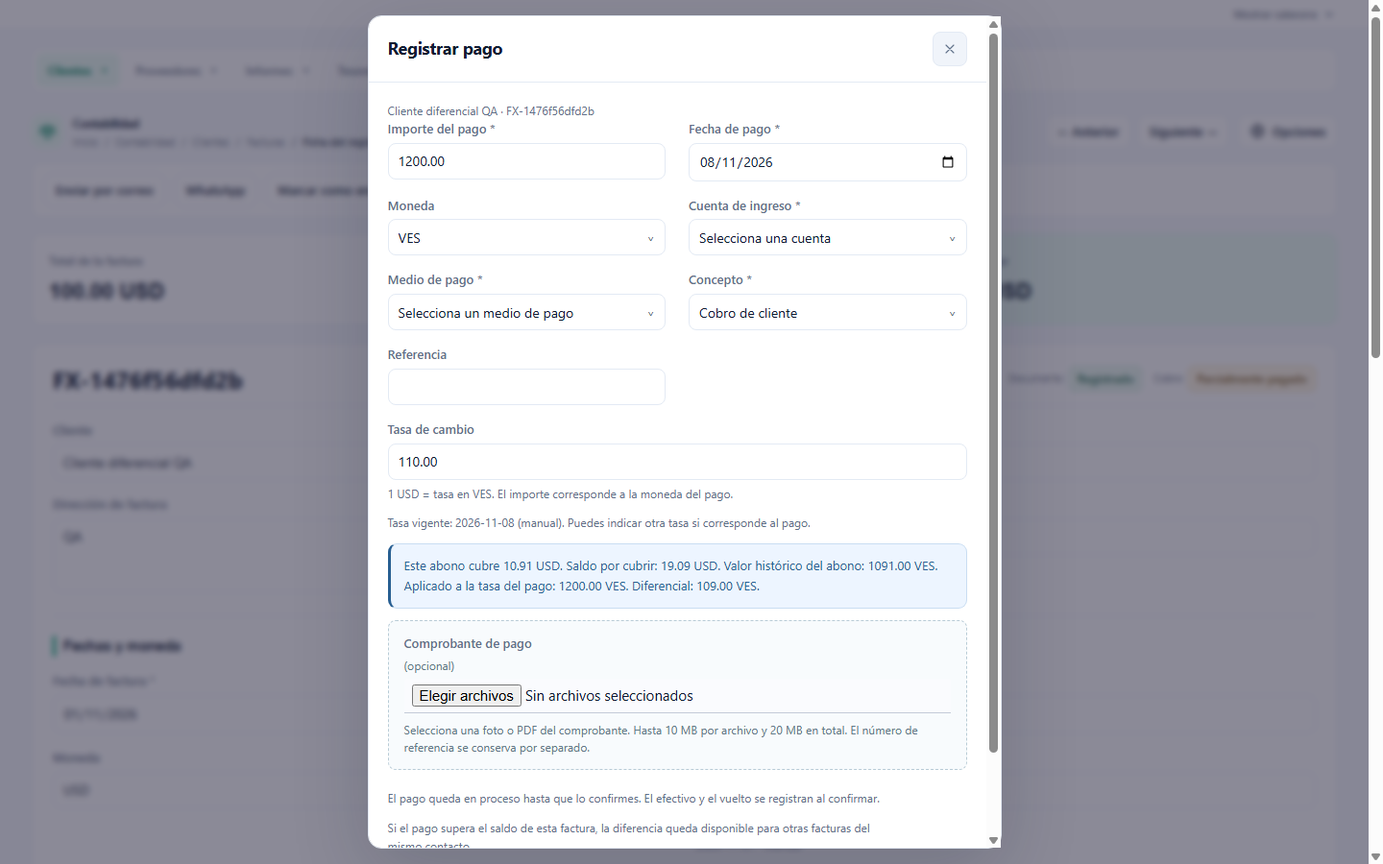
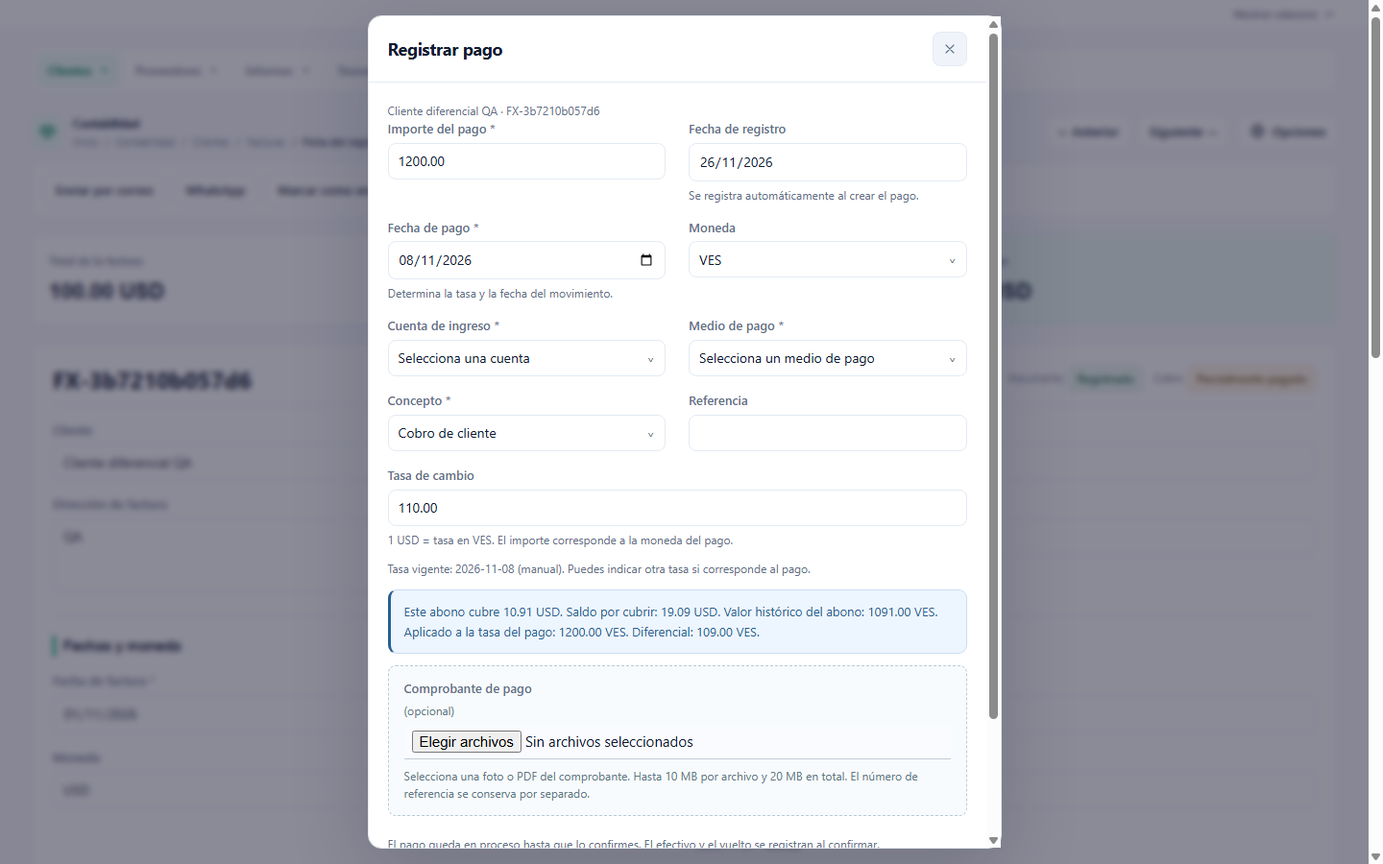
ajustes de fechas de pagos

diff --git a/test/commission-general-ui.js b/test/commission-general-ui.js
@@ -15,17 +15,25 @@ const fs=require('node:fs'),os=require('node:os'),path=require('node:path'),asse
   await ev('document.querySelector("[name=login]").value='+JSON.stringify(process.env.NEXO_TEST_LOGIN)+';document.querySelector("[name=password]").value='+JSON.stringify(process.env.NEXO_TEST_PASSWORD)+';document.querySelector("form").requestSubmit()');await until('!!document.querySelector(".konta-module-card")');
 
   const checks=[];
-  for(const width of [390,1440]){
+  const invoice=process.env.NEXO_TEST_INVOICE;
+  const routes=['/modules/ventas/pagos-comisiones.php?new=1&seller_id='+process.env.NEXO_TEST_SELLER+'&commission_currency=USD','/modules/ventas/pagos-comisiones.php?new=1&invoice_id='+invoice+'&period=custom&date_from='+process.env.NEXO_TEST_PAYMENT_DATE+'&date_to='+process.env.NEXO_TEST_PAYMENT_DATE,'/modules/ventas/comisiones.php?id='+invoice];
+  for(const width of [390,1440])for(const [index,route] of routes.entries()){
    await call('Emulation.setDeviceMetricsOverride',{width,height:900,deviceScaleFactor:1,mobile:width<600});
-   await navigate('/modules/ventas/pagos-comisiones.php?new=1&seller_id='+process.env.NEXO_TEST_SELLER+'&commission_currency=USD');
+   await navigate(route);
    await until('!!document.querySelector("[data-commission-payment-form]")');
    await until('!!document.querySelector("[data-commission-preview]").textContent');
-   await ev('document.querySelector("[data-commission-amount]").value="2.00";document.querySelector("[data-commission-currency]").value="VES";document.querySelector("[data-commission-rate]").value="110.00";document.querySelector("[data-commission-rate]").dispatchEvent(new Event("input",{bubbles:true}))');
+   await ev('document.querySelector("[data-open-commission-payment]")?.click();document.querySelector("[data-commission-amount]").value="2.00";document.querySelector("[data-commission-currency]").value="VES";document.querySelector("[data-commission-currency]").dispatchEvent(new Event("change",{bubbles:true}));document.querySelector("[data-commission-rate]").value="110.00";document.querySelector("[data-commission-rate]").dispatchEvent(new Event("input",{bubbles:true}))');
    const preview=await ev('document.querySelector("[data-commission-preview]").textContent');assert.ok(preview.includes('220.00 VES'),preview);
+   const registered=await ev('document.querySelector("[data-commission-payment-form] input[type=date][readonly]").value');
+   await ev('document.querySelector("[name=movement_date]").value='+JSON.stringify(process.env.NEXO_TEST_PAYMENT_DATE)+';document.querySelector("[name=movement_date]").dispatchEvent(new Event("change",{bubbles:true}))');
+   await until('document.querySelector("[name=exchange_rate]").value==="100.00"&&document.querySelector("[data-payment-rate-status]").textContent.includes('+JSON.stringify(process.env.NEXO_TEST_PAYMENT_DATE)+')');
+   assert.equal(await ev('document.querySelector("[data-commission-preview]").textContent.includes("200.00 VES")'),true);
+   assert.equal(await ev('document.querySelector("[data-commission-amount]").value'),'2.00');
+   assert.equal(await ev('document.querySelector("[data-commission-payment-form] input[type=date][readonly]").value'),registered);
    const bounds=await ev('({width:innerWidth,overflow:document.documentElement.scrollWidth>innerWidth+1,fields:[...document.querySelectorAll("[data-commission-payment-form] input:not([type=hidden]),[data-commission-payment-form] select")].every(e=>{const r=e.getBoundingClientRect();return r.left>=0&&r.right<=innerWidth+1})})');
    assert.equal(bounds.overflow,false);assert.equal(bounds.fields,true);checks.push({width,...bounds,preview});
-   const shot=await call('Page.captureScreenshot',{format:'png',captureBeyondViewport:true});fs.writeFileSync(path.join(out,'general-'+width+'.png'),Buffer.from(shot.data,'base64'));
+   const shot=await call('Page.captureScreenshot',{format:'png',captureBeyondViewport:true});fs.writeFileSync(path.join(out,'general-'+index+'-'+width+'.png'),Buffer.from(shot.data,'base64'));
   }
-  assert.deepEqual(errors,[]);fs.writeFileSync(path.join(out,'report.json'),JSON.stringify(checks,null,2));console.log('PASS: desktop/mobile general commission form, conversion preview, controls inside viewport and no browser errors.');
+  assert.deepEqual(errors,[]);fs.writeFileSync(path.join(out,'report.json'),JSON.stringify(checks,null,2));console.log('PASS: desktop/mobile general and invoice commission forms, dated rates, stable registration date and native amount, preview and no browser errors.');
  }finally{if(ws)ws.close();child.kill();await new Promise(resolve=>child.once('exit',resolve));for(let n=0;n<10;n++){try{fs.rmSync(profile,{recursive:true,force:true});break;}catch{await new Promise(r=>setTimeout(r,100));}}}
 })().catch(error=>{console.error(error);process.exitCode=1;});

diff --git a/js/payment-exchange.js b/js/payment-exchange.js
@@ -1,6 +1,6 @@
 // Compare each applied portion, using the same cent rounding as the PHP repository.
 for (const form of document.querySelectorAll('[data-payment-rate-endpoint]')) {
-    const date=form.querySelector('[name="payment_date"]'), rate=form.querySelector('[name="exchange_rate"]');
+    const date=form.elements.namedItem(form.dataset.paymentDateField||'payment_date'), rate=form.querySelector('[name="exchange_rate"]');
     const currency=form.querySelector('[name="currency_code"]'), amount=form.querySelector('[name="amount"]');
     const status=form.querySelector('[data-payment-rate-status]'), preview=form.querySelector('[data-payment-fx-preview]');
     const pair=JSON.parse(form.dataset.paymentPair), invoice=JSON.parse(form.dataset.paymentFxInvoice||'null');

diff --git a/html/sales/commission-payments.php b/html/sales/commission-payments.php
@@ -21,13 +21,14 @@
     <?php endif; ?>
     <?php if($page['view']==='list'): ?>
         <p class="section-subtitle">Período por fecha de pago. Cada registro corresponde al mismo egreso registrado en Tesorería; los pagos revertidos se conservan.</p>
-        <div class="contact-table-wrap"><table class="contact-table"><thead><tr><th>Pago</th><th>Fecha</th><th>Vendedor</th><th>Factura</th><th>Cuenta de egreso</th><th>Medio de pago</th><th>Importe pagado</th><th>Comisión aplicada</th><th>Estado</th></tr></thead><tbody>
+        <div class="contact-table-wrap"><table class="contact-table"><thead><tr><th>Pago</th><th>Fecha de pago</th><th>Vendedor</th><th>Factura</th><th>Cuenta de egreso</th><th>Medio de pago</th><th>Importe pagado</th><th>Comisión aplicada</th><th>Estado</th></tr></thead><tbody>
         <?php foreach($page['rows'] as $payment): ?><tr><td><a class="contact-name" href="pagos-comisiones.php?id=<?= (int)$payment['id'] ?>"><?= $e($payment['name']) ?></a></td><td><?= $e($payment['movement_date']) ?></td><td><?= $e($payment['seller_name']) ?></td><td><a class="inline-link" href="comisiones.php?id=<?= (int)$payment['invoice_id'] ?>"><?= ($payment['payment_scope']??'invoice')==='seller'?'Pago general al vendedor':$e($payment['invoice_name']) ?></a></td><td><?= $e($payment['account_name']) ?></td><td><?= $e($payment['method_name']) ?></td><td><?= $e($payment['payment_amount'].' '.$payment['currency_code']) ?></td><td><?= $e($payment['amount'].' '.$payment['invoice_currency']) ?></td><td><?= $payment['reversed_by_id']?'Revertido':'Pagado' ?></td></tr><?php endforeach; ?>
         <?php if(!$page['rows']): ?><tr><td colspan="9" class="contact-empty">No hay pagos de comisiones en este período.</td></tr><?php endif; ?></tbody></table></div>
         <nav class="contact-pagination" aria-label="Páginas de pagos de comisiones"><span>Página <?= $page['currentPage'] ?> de <?= $page['pages'] ?></span><?php foreach(['Anterior'=>$page['currentPage']-1,'Siguiente'=>$page['currentPage']+1] as $label=>$number): ?><?php if($number>=1&&$number<=$page['pages']): ?><a class="contact-button" href="pagos-comisiones.php?<?= $e(cashFlowQuery($page['range']).'&'.http_build_query(['seller_id'=>$page['sellerId'],'page'=>$number])) ?>"><?= $label ?></a><?php endif; ?><?php endforeach; ?></nav>
     <?php elseif($page['view']==='form'): ?>
         <div class="document-actions"><a class="contact-button" href="comisiones.php?id=<?= (int)$record['invoice_id'] ?>">Comisión relacionada</a><a class="contact-button" href="../contabilidad/index.php?type=customer&amp;id=<?= (int)$record['invoice_id'] ?>">Factura · <?= $e($record['invoice_name']) ?></a><?php if($record['sale_id']): ?><a class="contact-button" href="index.php?id=<?= (int)$record['sale_id'] ?>">Venta · <?= $e($record['sale_name']) ?></a><?php endif; ?><a class="contact-button" href="../contabilidad/tesoreria.php?id=<?= (int)$record['treasury_document_id'] ?>">Movimiento en Tesorería</a><?php if($record['reversed_by_id']): ?><a class="contact-button" href="../contabilidad/tesoreria.php?id=<?= (int)$record['reversed_by_id'] ?>">Reversión · <?= $e($record['reversal_name']) ?></a><?php endif; ?></div>
         <div class="contact-sheet"><div class="contact-form-grid">
+            <label>Fecha de registro<input type="date" readonly value="<?= $e(substr($record['payment_created_at']??'',0,10)) ?>"></label>
             <?php foreach(['seller_name'=>'Vendedor','customer_name'=>'Cliente','invoice_name'=>'Primera factura aplicada','movement_date'=>'Fecha de pago','account_name'=>'Cuenta de egreso','method_name'=>'Medio de pago'] as $key=>$label): ?><label><?= $label ?><input readonly value="<?= $e($record[$key]) ?>"></label><?php endforeach; ?>
             <label>Importe pagado<input readonly value="<?= $e($record['payment_amount'].' '.$record['currency_code']) ?>"></label><label>Comisión aplicada<input readonly value="<?= $e($record['amount'].' '.$record['invoice_currency']) ?>"></label><label>Tasa de cambio<input readonly value="<?= $e($record['exchange_rate']) ?>"></label><label>Referencia<input readonly value="<?= $e($record['reference']) ?>"></label>
         </div><?php if(($record['payment_scope']??'invoice')==='seller'): ?><h2>Distribución del pago general</h2><div class="contact-table-wrap"><table class="contact-table"><thead><tr><th>Factura</th><th>Importe aplicado</th></tr></thead><tbody><?php foreach($page['allocations'] as $allocation): ?><tr><td><a class="contact-name" href="comisiones.php?id=<?= (int)$allocation['invoice_id'] ?>"><?= $e($allocation['invoice_name']) ?></a></td><td><?= $e($allocation['amount'].' '.$allocation['currency_code']) ?></td></tr><?php endforeach; ?></tbody></table></div><?php endif; ?><?php $proofs=$page['proofs']??[];$proofBase='pagos-comisiones.php?id='.(int)$record['id'];require dirname(__DIR__).'/accounting/proof-list.php'; ?><?php if($record['reversed_by_id']): ?><p class="notice">Este pago fue revertido. Su salida original y el movimiento de devolución se conservan en Tesorería.</p><?php endif; ?></div>
@@ -39,7 +40,7 @@
             <div class="document-actions"><a class="contact-button" href="comisiones.php?id=<?= (int)$record['id'] ?>">Comisión relacionada</a><a class="contact-button" href="../contabilidad/index.php?type=customer&amp;id=<?= (int)$record['id'] ?>">Factura · <?= $e($record['name']) ?></a></div>
             <div class="contact-sheet"><div class="contact-form-grid"><label>Vendedor<input readonly value="<?= $e($record['seller_name']) ?>"></label><label>Cliente<input readonly value="<?= $e($record['customer_name']) ?>"></label><label>Factura<input readonly value="<?= $e($record['name']) ?>"></label><label>Pendiente de pago<input readonly value="<?= $e($record['commission_pending'].' '.$record['currency_code']) ?>"></label></div>
             <?php if(!$page['hasAdjustment'] && bccomp($record['commission_pending'],'0',2)>0): $input=$page['formInput']; ?>
-                <form method="post" action="<?= $e($page['paymentAction']) ?>" enctype="multipart/form-data" data-commission-payment-form>
+                <form method="post" action="<?= $e($page['paymentAction']) ?>" enctype="multipart/form-data" <?php require __DIR__.'/commission-payment-rate-attributes.php'; ?>>
                     <?php require __DIR__.'/commission-payment-fields.php'; ?>
                     <div class="contact-form-actions"><button class="contact-button contact-button-primary">Confirmar pago</button><a class="contact-button" href="pagos-comisiones.php">Cancelar</a></div>
                 </form>

diff --git a/html/accounting/payment-list.php b/html/accounting/payment-list.php
@@ -1,4 +1,4 @@
 <section><div class="contact-toolbar"><div><p class="eyebrow">CONTABILIDAD · <?= $page['type']==='customer'?'CLIENTES':'PROVEEDORES' ?></p><h1>Pagos</h1><p class="section-subtitle"><?= $page['total'] ?> registros</p></div><a class="contact-button contact-button-primary" href="pagos.php?type=<?= $page['type'] ?>&amp;new=1">Nuevo pago</a></div>
 <form class="contact-filters"><input type="hidden" name="type" value="<?= $page['type'] ?>"><label>Buscar<input type="search" name="q" value="<?= accountingEscape($page['search']) ?>"></label><label>Estado<select name="status" data-auto-submit><option value="all">Todos</option><?php foreach(paymentStatuses() as $key=>$label): ?><option value="<?= $key ?>" <?= $page['statusFilter']===$key?'selected':'' ?>><?= $label ?></option><?php endforeach; ?></select></label><label><input type="checkbox" name="available" value="1" <?= $page['availableFilter']?'checked':'' ?>> Con importe disponible</label><button class="contact-button">Buscar</button></form>
-<div class="contact-table-wrap"><table class="contact-table"><thead><tr><th>Referencia</th><th>Contacto</th><th>Tipo</th><th>Fecha</th><th>Caja / banco</th><th>Importe</th><th>Sin aplicar</th><th>Estado</th></tr></thead><tbody><?php foreach($page['rows'] as $row): ?><tr><td><a class="contact-name" href="pagos.php?type=<?= $page['type'] ?>&amp;id=<?= (int)$row['id'] ?>"><?= accountingEscape($row['name']) ?></a></td><td><?= accountingEscape($row['contact_name']) ?></td><td><?= $row['direction']==='inbound'?'Recibir':'Enviar' ?></td><td><?= accountingEscape($row['payment_date']) ?></td><td><?= accountingEscape($row['account_name']) ?></td><td><?= accountingEscape($row['amount'].' '.$row['currency_code']) ?></td><td><?= in_array($row['status'],['cancel','reversed'],true)?'0.00':accountingEscape($row['available']) ?></td><td><?= paymentStatuses()[$row['status']] ?></td></tr><?php endforeach; ?><?php if(!$page['rows']): ?><tr><td colspan="8">No hay pagos que coincidan con los filtros.</td></tr><?php endif; ?></tbody></table></div>
+<div class="contact-table-wrap"><table class="contact-table"><thead><tr><th>Referencia</th><th>Contacto</th><th>Tipo</th><th>Fecha de pago</th><th>Caja / banco</th><th>Importe</th><th>Sin aplicar</th><th>Estado</th></tr></thead><tbody><?php foreach($page['rows'] as $row): ?><tr><td><a class="contact-name" href="pagos.php?type=<?= $page['type'] ?>&amp;id=<?= (int)$row['id'] ?>"><?= accountingEscape($row['name']) ?></a></td><td><?= accountingEscape($row['contact_name']) ?></td><td><?= $row['direction']==='inbound'?'Recibir':'Enviar' ?></td><td><?= accountingEscape($row['payment_date']) ?></td><td><?= accountingEscape($row['account_name']) ?></td><td><?= accountingEscape($row['amount'].' '.$row['currency_code']) ?></td><td><?= in_array($row['status'],['cancel','reversed'],true)?'0.00':accountingEscape($row['available']) ?></td><td><?= paymentStatuses()[$row['status']] ?></td></tr><?php endforeach; ?><?php if(!$page['rows']): ?><tr><td colspan="8">No hay pagos que coincidan con los filtros.</td></tr><?php endif; ?></tbody></table></div>
 <nav class="contact-pagination"><span>Página <?= $page['currentPage'] ?> de <?= $page['pages'] ?></span><?php foreach(['Anterior'=>$page['currentPage']-1,'Siguiente'=>$page['currentPage']+1] as $label=>$number): ?><?php if($number>=1&&$number<=$page['pages']): ?><a class="contact-button" href="pagos.php?<?= accountingEscape(http_build_query(['type'=>$page['type'],'q'=>$page['search'],'status'=>$page['statusFilter'],'available'=>$page['availableFilter']?'1':null,'page'=>$number])) ?>"><?= $label ?></a><?php endif; ?><?php endforeach; ?></nav></section>

diff --git a/html/sales/commission-payment-fields.php b/html/sales/commission-payment-fields.php
@@ -1,10 +1,12 @@
 <div class="invoice-wizard-body contact-form-grid"><input type="hidden" name="csrf" value="<?= $e($page['csrf']) ?>"><input type="hidden" name="action" value="pay_commission"><input type="hidden" name="creation_key" value="<?= $e($page['creationKey']) ?>">
 <label>Importe de comisión (<?= $e($record['currency_code']) ?>) *<input name="amount" required inputmode="decimal" data-commission-amount value="<?= $e($input['amount']??$record['commission_pending']) ?>"></label>
-<label>Fecha *<input type="date" name="movement_date" required min="<?= $e($record['invoice_date']) ?>" max="<?= commerceToday() ?>" value="<?= $e($input['movement_date']??commerceToday()) ?>"></label>
+<label>Fecha de registro<input type="date" readonly value="<?= commerceToday() ?>"><small>Se registra automáticamente al crear el pago.</small></label>
+<label>Fecha de pago *<input type="date" name="movement_date" required min="<?= $e($record['invoice_date']) ?>" max="<?= commerceToday() ?>" value="<?= $e($input['movement_date']??commerceToday()) ?>"><small>Determina la tasa y la fecha del egreso.</small></label>
 <label>Cuenta de egreso *<select name="account_id" required data-commission-account><option value="">Selecciona una cuenta</option><?php foreach($page['accounts'] as $account): ?><option value="<?= (int)$account['id'] ?>" data-currency="<?= $e($account['currency_code']??'') ?>" <?= (int)($input['account_id']??0)===(int)$account['id']?'selected':'' ?>><?= $e($account['name']) ?></option><?php endforeach; ?></select></label>
 <label>Medio de pago *<select name="method_id" required><option value="">Selecciona un medio de pago</option><?php foreach($page['methods'] as $method): ?><option value="<?= (int)$method['id'] ?>" <?= (int)($input['method_id']??0)===(int)$method['id']?'selected':'' ?>><?= $e($method['name']) ?></option><?php endforeach; ?></select></label>
 <label>Moneda del pago<select name="currency_code" data-commission-currency><?php foreach(array_unique(array_merge(accountingCurrencyCodes($page['settings']),[$record['currency_code']])) as $code): ?><option value="<?= $e($code) ?>" <?= ($input['currency_code']??$record['currency_code'])===$code?'selected':'' ?>><?= $e($code) ?></option><?php endforeach; ?></select></label>
 <label>Tasa de cambio<input name="exchange_rate" inputmode="decimal" data-commission-rate value="<?= $e($input['exchange_rate']??$page['settings']['exchange_rate']??'') ?>"><small>1 <?= $e($page['settings']['primary_code']) ?> = tasa en <?= $e($page['settings']['alternate_code']) ?>.</small></label>
 <label>Referencia<input name="reference" maxlength="160" value="<?= $e($input['reference']??'') ?>"></label>
 <?php require dirname(__DIR__).'/accounting/proof-input.php'; ?>
-<p class="section-subtitle contact-full" data-commission-preview></p><p class="section-subtitle contact-full">El pago descuenta el saldo generado acumulado. No requiere que el cliente haya pagado.</p></div>
+<p class="section-subtitle contact-full" data-payment-rate-status aria-live="polite"></p><p class="section-subtitle contact-full" data-commission-preview></p><p class="section-subtitle contact-full">El pago descuenta el saldo generado acumulado. No requiere que el cliente haya pagado.</p></div>
+<script src="../../js/payment-exchange.js?v=<?= filemtime(dirname(__DIR__,2).'/js/payment-exchange.js') ?>" defer></script>

diff --git a/test/commission-general-payments.php b/test/commission-general-payments.php
@@ -79,8 +79,22 @@ try{
         cgCheck(authTestRequest($server,$path,$limited)[0]===403,'Read-only user opened the payment form.');
         cgCheck(authTestRequest($server,'/modules/ventas/pagos-comisiones.php',$limited)[0]===200,'Read-only history is inaccessible.');
     }finally{if(is_file($limited))unlink($limited);}
+    $usd=(int)$db->query("SELECT id FROM accounting_currencies WHERE company_id=1 AND code='USD'")->fetchColumn();
+    $ves=(int)$db->query("SELECT id FROM accounting_currencies WHERE company_id=1 AND code='VES'")->fetchColumn();
+    $db->prepare('DELETE FROM accounting_currency_rates WHERE company_id=1 AND rate_date IN (?,?)')->execute([$yesterday,$today]);
+    foreach([$yesterday=>'100.00',$today=>'110.00'] as $date=>$rate)$insert('accounting_currency_rates',['base_currency_id'=>$usd,'currency_id'=>$ves,'rate_date'=>$date,'rate'=>$rate,'source'=>'manual']);
+    foreach([$path,'/modules/ventas/comisiones.php?id='.$b,'/modules/ventas/pagos-comisiones.php?new=1&invoice_id='.$b] as $route){
+        [$code,$body]=authTestRequest($server,$route.'&payment_rate_date='.$yesterday,$cookie);$snapshot=json_decode($body,true,512,JSON_THROW_ON_ERROR);
+        cgCheck($code===200&&$snapshot['exchange_rate']==='100.00'&&$snapshot['rate_date']===$yesterday,'Commission rate lookup ignored the payment date.');
+        cgCheck(authTestRequest($server,$route.'&payment_rate_date=invalid',$cookie)[0]===422,'Commission rate lookup accepted an invalid date.');
+    }
+    $historicalSeller=$insert('contacts',['name'=>'Historico QA','type_id'=>$types['salesperson']]);$historicalInvoice=$invoice('5.00',$yesterday,'USD',$historicalSeller);
+    $historicalInput=array_replace($input,['amount'=>'2.00','movement_date'=>$yesterday,'currency_code'=>'VES']);unset($historicalInput['exchange_rate']);
+    $historic=paySellerCommission($db,$historicalSeller,'USD',$historicalInput,bin2hex(random_bytes(32)));
+    $historicRow=$db->query('SELECT * FROM accounting_treasury_documents WHERE id='.$historic)->fetch();
+    cgCheck($historicRow['amount']==='200.00'&&$historicRow['exchange_rate']==='100.00'&&$historicRow['movement_date']===$yesterday&&substr($historicRow['created_at'],0,10)===$today,'Backdated commission did not preserve payment date, historical rate and actual registration date.');
     if(in_array('--browser',$argv,true)){
-        $env=getenv();$env['NEXO_TEST_BASE_URL']=$server['url'];$env['NEXO_TEST_LOGIN']=$login;$env['NEXO_TEST_PASSWORD']=$password;$env['NEXO_TEST_SELLER']=(string)$seller;
+        $env=getenv();$env['NEXO_TEST_BASE_URL']=$server['url'];$env['NEXO_TEST_LOGIN']=$login;$env['NEXO_TEST_PASSWORD']=$password;$env['NEXO_TEST_SELLER']=(string)$historicalSeller;$env['NEXO_TEST_INVOICE']=(string)$historicalInvoice;$env['NEXO_TEST_PAYMENT_DATE']=$yesterday;
         $browser=proc_open(['node',__DIR__.'/commission-general-ui.js'],[0=>['pipe','r'],1=>STDOUT,2=>STDERR],$pipes,dirname(__DIR__),$env,['bypass_shell'=>true,'create_new_console'=>false]);
         fclose($pipes[0]);cgCheck(proc_close($browser)===0,'General commission browser verification failed.');
     }

diff --git a/html/sales/commissions.php b/html/sales/commissions.php
@@ -28,7 +28,7 @@
 <h2 class="commission-detail-title">Productos</h2><div class="contact-table-wrap"><table class="contact-table"><thead><tr><th>Producto</th><th>Cantidad facturada</th><th>Devuelta</th><th>Precio en tienda</th><th>Precio de venta</th><th>Comisión</th></tr></thead><tbody><?php foreach($record['commission_lines'] as $line): ?><tr><td><?= $e($line['product_name']) ?></td><td><?= $e($line['quantity']) ?></td><td><?= $e($line['returned_quantity']) ?></td><td><?= $e($line['commission_reference_price']??'—') ?></td><td><?= $e($line['unit_price']) ?></td><td><?= $e($line['commission_amount']) ?></td></tr><?php endforeach; ?></tbody></table></div>
 <h2 class="commission-detail-title">Pagos al vendedor</h2><div class="contact-table-wrap"><table class="contact-table"><thead><tr><th>Movimiento</th><th>Fecha</th><th>Cuenta de egreso</th><th>Medio de pago</th><th>Importe pagado</th><th>Comisión aplicada</th><th>Estado</th></tr></thead><tbody><?php foreach($page['payments'] as $payment): ?><tr><td><a class="contact-name" href="pagos-comisiones.php?id=<?= (int)$payment['id'] ?>"><?= $e($payment['name']) ?></a></td><td><?= $e($payment['movement_date']) ?></td><td><?= $e($payment['account_name']) ?></td><td><?= $e($payment['method_name']) ?></td><td><?= $e($payment['payment_amount'].' '.$payment['currency_code']) ?></td><td><?= $e($payment['amount'].' '.$record['currency_code']) ?></td><td><?= $payment['reversed_by_id']?'Revertido':'Pagado' ?></td></tr><?php endforeach; ?><?php if(!$page['payments']): ?><tr><td colspan="7" class="contact-empty">No se ha pagado esta comisión.</td></tr><?php endif; ?></tbody></table></div></div>
 <?php if(bccomp($record['commission_pending'],'0',2)>0): ?>
-<dialog class="contact-sheet invoice-wizard" aria-labelledby="commission-payment-title" data-commission-payment <?= $input?'data-reopen':'' ?>><form method="post" action="comisiones.php?id=<?= (int)$record['id'] ?>" data-commission-payment-form>
+<dialog class="contact-sheet invoice-wizard" aria-labelledby="commission-payment-title" data-commission-payment <?= $input?'data-reopen':'' ?>><form method="post" action="comisiones.php?id=<?= (int)$record['id'] ?>" <?php require __DIR__.'/commission-payment-rate-attributes.php'; ?>>
 <div class="invoice-wizard-header"><h2 id="commission-payment-title">Pagar comisión</h2><button class="contact-button contact-icon-button" type="button" data-close-commission-payment aria-label="Cerrar">×</button></div>
 <?php if($input): ?><div class="notice notice-error" role="alert"><?php foreach($page['errors'] as $message): ?><p><?= $e($message) ?></p><?php endforeach; ?></div><?php endif; ?>
 <?php require __DIR__.'/commission-payment-fields.php'; ?>

diff --git a/html/accounting/invoice-payment-wizard.php b/html/accounting/invoice-payment-wizard.php
@@ -20,7 +20,8 @@ if($wizardIndexed)$wizardFx+=['indexed_native_total'=>$record['total_amount'],'i
             <?php if ($failedWizardAction === 'register_payment'): ?><div class="notice" role="alert"><?php foreach ($page['errors'] as $error): ?><p><?= accountingEscape($error) ?></p><?php endforeach; ?></div><?php endif; ?>
             <div class="contact-form-grid">
                 <label><span data-cash-net-label>Importe del pago *</span><input name="amount" inputmode="decimal" required autofocus value="<?= accountingEscape($wizardValue('amount', $wizardOpening)) ?>" maxlength="19"></label>
-                <label>Fecha de pago *<input type="date" name="payment_date" required value="<?= accountingEscape($wizardValue('payment_date', commerceToday())) ?>"></label>
+                <label>Fecha de registro<input type="date" readonly value="<?= commerceToday() ?>"><small>Se registra automáticamente al crear el pago.</small></label>
+                <label>Fecha de pago *<input type="date" name="payment_date" required value="<?= accountingEscape($wizardValue('payment_date', commerceToday())) ?>"><small>Determina la tasa y la fecha del movimiento.</small></label>
                 <label>Moneda<select name="currency_code"><?php foreach (array_unique(array_merge(accountingCurrencyCodes($page['settings']), [$record['currency_code']])) as $code): ?><option value="<?= accountingEscape($code) ?>" <?= $wizardCurrency === $code ? 'selected' : '' ?>><?= accountingEscape($code) ?></option><?php endforeach; ?></select></label>
                 <label><?= (($page['type']==='customer') === !$credit) ? 'Cuenta de ingreso' : 'Cuenta de egreso' ?> *<select name="account_id" required><option value="" <?= !salesId($wizardValue('account_id', '')) ? 'selected' : '' ?>>Selecciona una cuenta</option><?php foreach ($page['paymentAccounts'] as $account): ?><option data-account-type="<?= $account['account_type'] ?>" value="<?= (int)$account['id'] ?>" <?= $wizardValue('account_id', '') === (string)$account['id'] ? 'selected' : '' ?>><?= accountingEscape($account['name']) ?><?= $account['currency_code'] ? ' · '.accountingEscape($account['currency_code']) : '' ?></option><?php endforeach; ?></select></label>
                 <label>Medio de pago *<select name="method_id" required><option value="">Selecciona un medio de pago</option><?php foreach ($page['paymentMethods'] as $method): ?><option data-allow-change="<?= (int)($method['allow_change']??0) ?>" value="<?= (int)$method['id'] ?>" <?= $wizardValue('method_id', '') === (string)$method['id'] ? 'selected' : '' ?>><?= accountingEscape($method['name']) ?></option><?php endforeach; ?></select></label>

diff --git a/html/sales/commission-general-payment.php b/html/sales/commission-general-payment.php
@@ -9,7 +9,7 @@
     <?php foreach(['generated'=>'Generado neto acumulado','paid'=>'Pagado acumulado','pending'=>'Disponible para pagar','recoverable'=>'Saldo por compensar'] as $key=>$label): ?><div class="commission-payment-summary-<?= $key ?>"><dt><?= $label ?></dt><dd><?= $e($balance[$key].' '.$record['currency_code']) ?></dd></div><?php endforeach; ?>
 </dl>
 <?php if(bccomp($record['commission_pending'],'0',2)>0): $input=$page['formInput']; ?>
-<form method="post" action="<?= $e($page['paymentAction']) ?>" enctype="multipart/form-data" data-commission-payment-form><?php require __DIR__.'/commission-payment-fields.php'; ?><div class="contact-form-actions"><button class="contact-button contact-button-primary">Confirmar pago al vendedor</button><a class="contact-button" href="pagos-comisiones.php">Cancelar</a></div></form>
+<form method="post" action="<?= $e($page['paymentAction']) ?>" enctype="multipart/form-data" <?php require __DIR__.'/commission-payment-rate-attributes.php'; ?>><?php require __DIR__.'/commission-payment-fields.php'; ?><div class="contact-form-actions"><button class="contact-button contact-button-primary">Confirmar pago al vendedor</button><a class="contact-button" href="pagos-comisiones.php">Cancelar</a></div></form>
 <script type="application/json" data-currency-settings><?= json_encode($page['settings'],JSON_HEX_TAG|JSON_HEX_AMP|JSON_HEX_APOS|JSON_HEX_QUOT) ?></script><script src="../../js/currency.js" defer></script><script type="application/json" data-commission-settings><?= json_encode(['invoice_currency'=>$record['currency_code']],JSON_HEX_TAG|JSON_HEX_AMP|JSON_HEX_APOS|JSON_HEX_QUOT) ?></script><script src="../../js/commissions.js?v=<?= filemtime(dirname(__DIR__,2).'/js/commissions.js') ?>" defer></script>
 <?php else: ?><p class="notice">Este vendedor no tiene saldo disponible en esta moneda. Las nuevas comisiones aumentarán su saldo y compensarán cualquier exceso anterior.</p><?php endif; ?></div>
 <?php elseif($page['sellerId']): ?><p class="notice">Este vendedor todavía no tiene comisiones generadas en facturas registradas.</p><?php endif; ?>

diff --git a/html/accounting/payment-form.php b/html/accounting/payment-form.php
@@ -16,7 +16,8 @@
 <section class="workspace-form-section" aria-labelledby="payment-section-1"><h2 id="payment-section-1" class="workspace-section-title">Importe y fecha</h2><div class="contact-form-grid">
 <label><span data-cash-net-label>Importe *</span><input name="amount" inputmode="decimal" required value="<?= accountingEscape($record['amount']) ?>"></label>
 <label>Moneda<select name="currency_code"><?php foreach(array_unique(array_merge(accountingCurrencyCodes($page['settings']),[$record['currency_code']])) as $code): ?><option value="<?= accountingEscape($code) ?>" <?= $record['currency_code']===$code?'selected':'' ?>><?= accountingEscape($code) ?></option><?php endforeach; ?></select></label>
-<label>Fecha *<input type="date" name="payment_date" required value="<?= accountingEscape($record['payment_date']) ?>"></label>
+<label>Fecha de registro<input type="date" readonly value="<?= accountingEscape($editing?substr($record['created_at']??'',0,10):commerceToday()) ?>"><small>Se registra automáticamente al crear el pago.</small></label>
+<label>Fecha de pago *<input type="date" name="payment_date" required value="<?= accountingEscape($record['payment_date']) ?>"><small>Determina la tasa y la fecha del movimiento.</small></label>
 <label>Tasa de cambio<input name="exchange_rate" inputmode="decimal" value="<?= accountingEscape($record['exchange_rate']??'') ?>"><small>1 <?= accountingEscape($record['primary_code']) ?> = tasa en <?= accountingEscape($record['alternate_code']) ?>.</small></label>
 </div></section>
 <p class="section-subtitle" data-payment-rate-status aria-live="polite"><?php if(!empty($record['exchange_rate_date'])): ?>Tasa vigente: <?= accountingEscape($record['exchange_rate_date']) ?> (<?= accountingEscape($record['exchange_rate_source']??'manual') ?>)<?php endif; ?></p><section class="workspace-form-section" aria-labelledby="payment-section-2"><h2 id="payment-section-2" class="workspace-section-title">Cuenta y medio de pago</h2><div class="contact-form-grid">

diff --git a/php/commission-repository.php b/php/commission-repository.php
@@ -147,7 +147,7 @@ function salesCommissionPaymentHistory(PDO $db, ?array $range, ?int $sellerId = 
     $query = $db->prepare('SELECT COUNT(*)'.$from); $query->execute($params); $total = (int) $query->fetchColumn();
     $pages = max(1, (int) ceil($total/20)); $page = min(max($page,1),$pages);
     $query = $db->prepare('SELECT p.*,CASE WHEN p.payment_scope=\'seller\' THEN (SELECT SUM(total_payment.amount) FROM sales_commission_payments total_payment WHERE total_payment.treasury_document_id=p.treasury_document_id) ELSE p.amount END AS amount,d.name,d.movement_date,d.amount AS payment_amount,d.currency_code,d.exchange_rate,
-        d.reference,d.status,a.name AS account_name,m.name AS method_name,s.name AS seller_name,i.salesperson_id,
+        d.reference,d.status,d.created_at AS payment_created_at,a.name AS account_name,m.name AS method_name,s.name AS seller_name,i.salesperson_id,
         c.name AS customer_name,i.name AS invoice_name,i.currency_code AS invoice_currency,i.sale_id,o.name AS sale_name,
         r.id AS reversed_by_id,r.name AS reversal_name'.$from.' ORDER BY d.movement_date DESC,p.id DESC LIMIT 20 OFFSET '.(($page-1)*20));
     $query->execute($params);

diff --git a/php/commission-controller.php b/php/commission-controller.php
@@ -3,6 +3,7 @@ declare(strict_types=1);
 require_once __DIR__.'/module-page.php';
 require_once __DIR__.'/connection.php';
 require_once __DIR__.'/commission-repository.php';
+require_once __DIR__.'/payment-exchange.php';
 require_once __DIR__.'/cash-flow-controller.php';
 
 function renderSalesCommissions(): void
@@ -15,6 +16,7 @@ function renderSalesCommissions(): void
     $page['databaseStatus']=getDatabaseStatus();
     try {
         $db=createDatabaseConnection();$page['settings']=accountingCurrencies($db);
+        if(isset($_GET['payment_rate_date'])){renderPaymentRateLookup($db,$page['settings']);return;}
         foreach (['id','seller_id','sale_id'] as $field) {
             if (isset($_GET[$field])&&($field==='id'||$_GET[$field]!=='')&&!salesId($_GET[$field])) {
                 http_response_code(404);throw new InvalidArgumentException('El registro solicitado no existe.');
